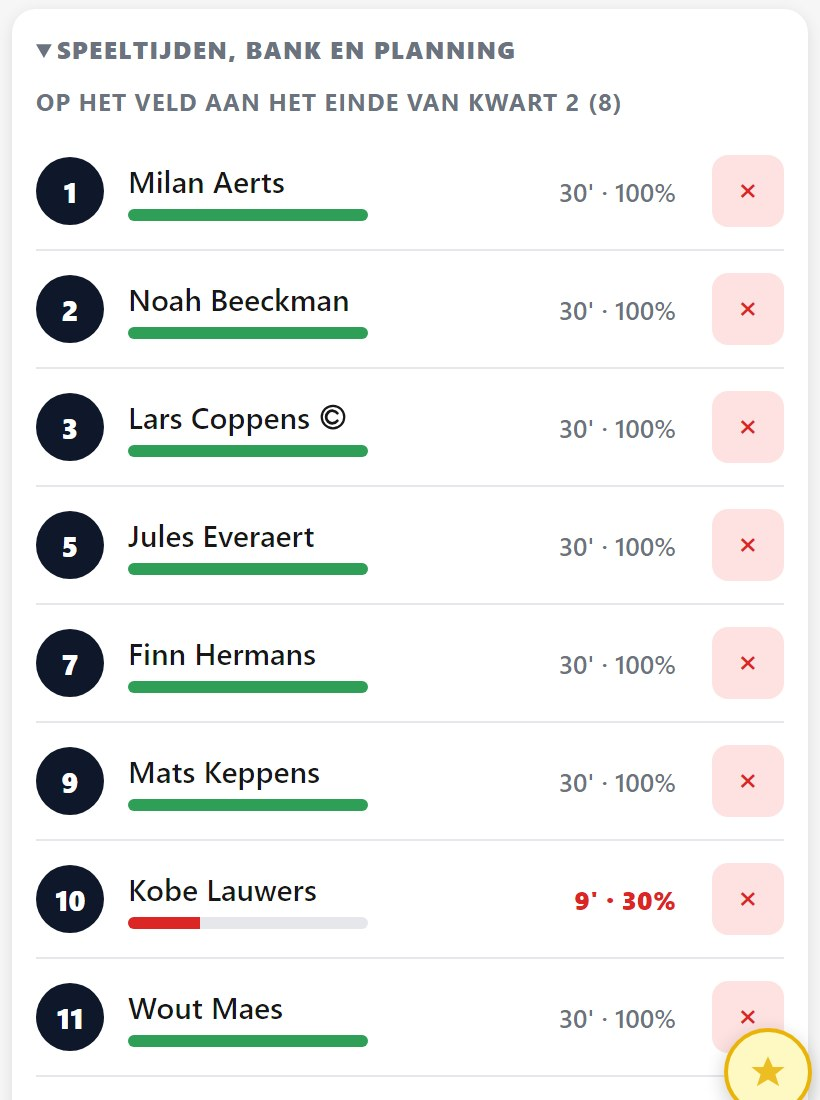
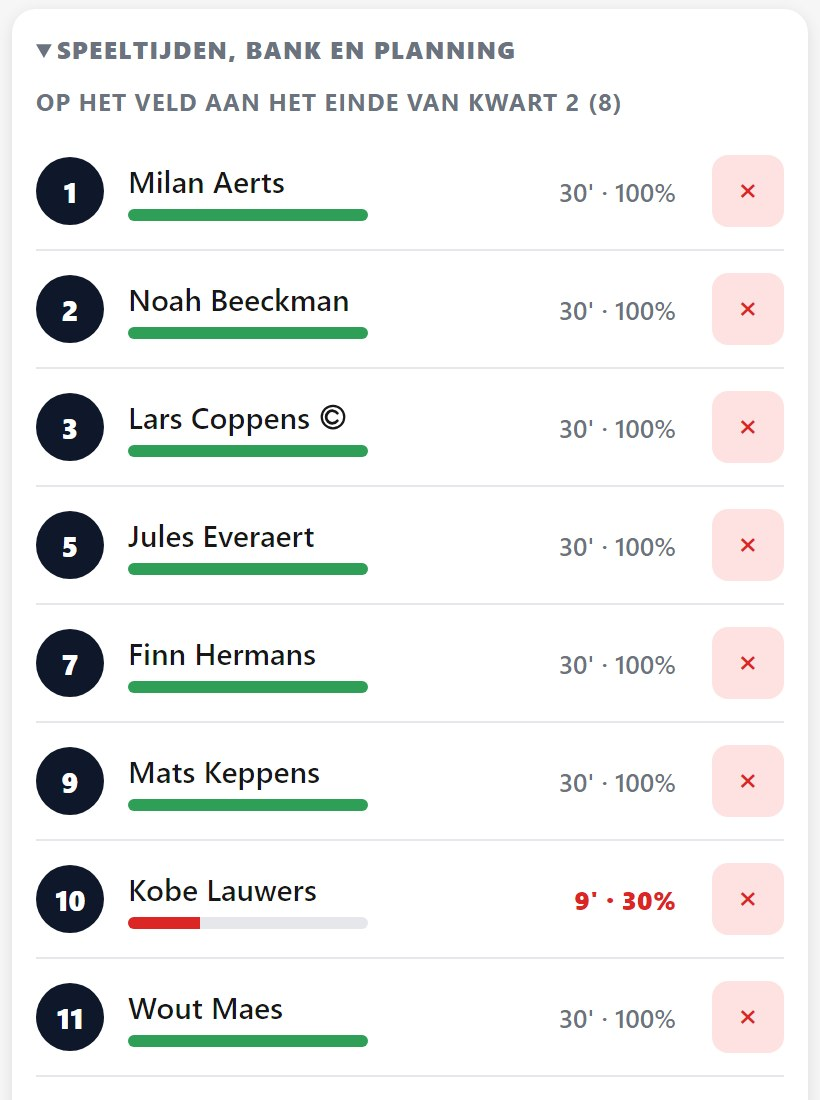
site: de twee andere schermbeelden die niet zuiver aflopen
Na stap 3 alle negen beelden nagekeken op alle vier de randen, door per beeld
de inkt in de eerste en laatste pixelrijen te tellen. Twee bleven over.

s-speeltijd.jpg (stap 5) - opnieuw opgenomen. Rechtsonder stond de zwevende
knop "Moment markeren" (.fab-mark, geel met een ster) half in beeld. Die staat
met position:fixed onderaan rechts en zweeft dus over elke uitsnede, waar je
ook snijdt; bijknippen kon hier niet, want de ster begint (bronrij 1528) nog
voor de laatste spelersregel eindigt. De shot 23_speeltijd verbergt .fab-mark
en .fab-note nu zelf, op dezelfde plek waar ze al het velddiagram wegzet.
Zelfde uitsnede, zelfde formaat en dezelfde inhoud als voorheen.

s-kijker.jpg (het beeld bovenaan) - 8 px van de onderrand af, 1864 -> 1856.
Daar kwamen de bovenste pixels van de voetregel nog mee kijken. Dit beeld is
bewust het hele toestel; 8 px op 1864 verandert die verhouding niet zichtbaar.

Onderaan s-veld.jpg loopt het gras door tot de rand. Dat blijft zo: het leest
als "het veld gaat verder", niet als een afgesneden element.

Changed region(s): [[0.8841, 0.9273, 1.0, 1.0]]

diff --git a/index.html b/index.html
@@ -499,7 +499,7 @@
     </div>
 
     <div class="toestel">
-      <img src="img/s-kijker.jpg" width="860" height="1864"
+      <img src="img/s-kijker.jpg" width="860" height="1856"
            alt="Het homescherm van de app zoals een meekijkende ouder het ziet: de lopende wedstrijd met de stand, de volgende wedstrijden en de laatste uitslag">
     </div>
 
